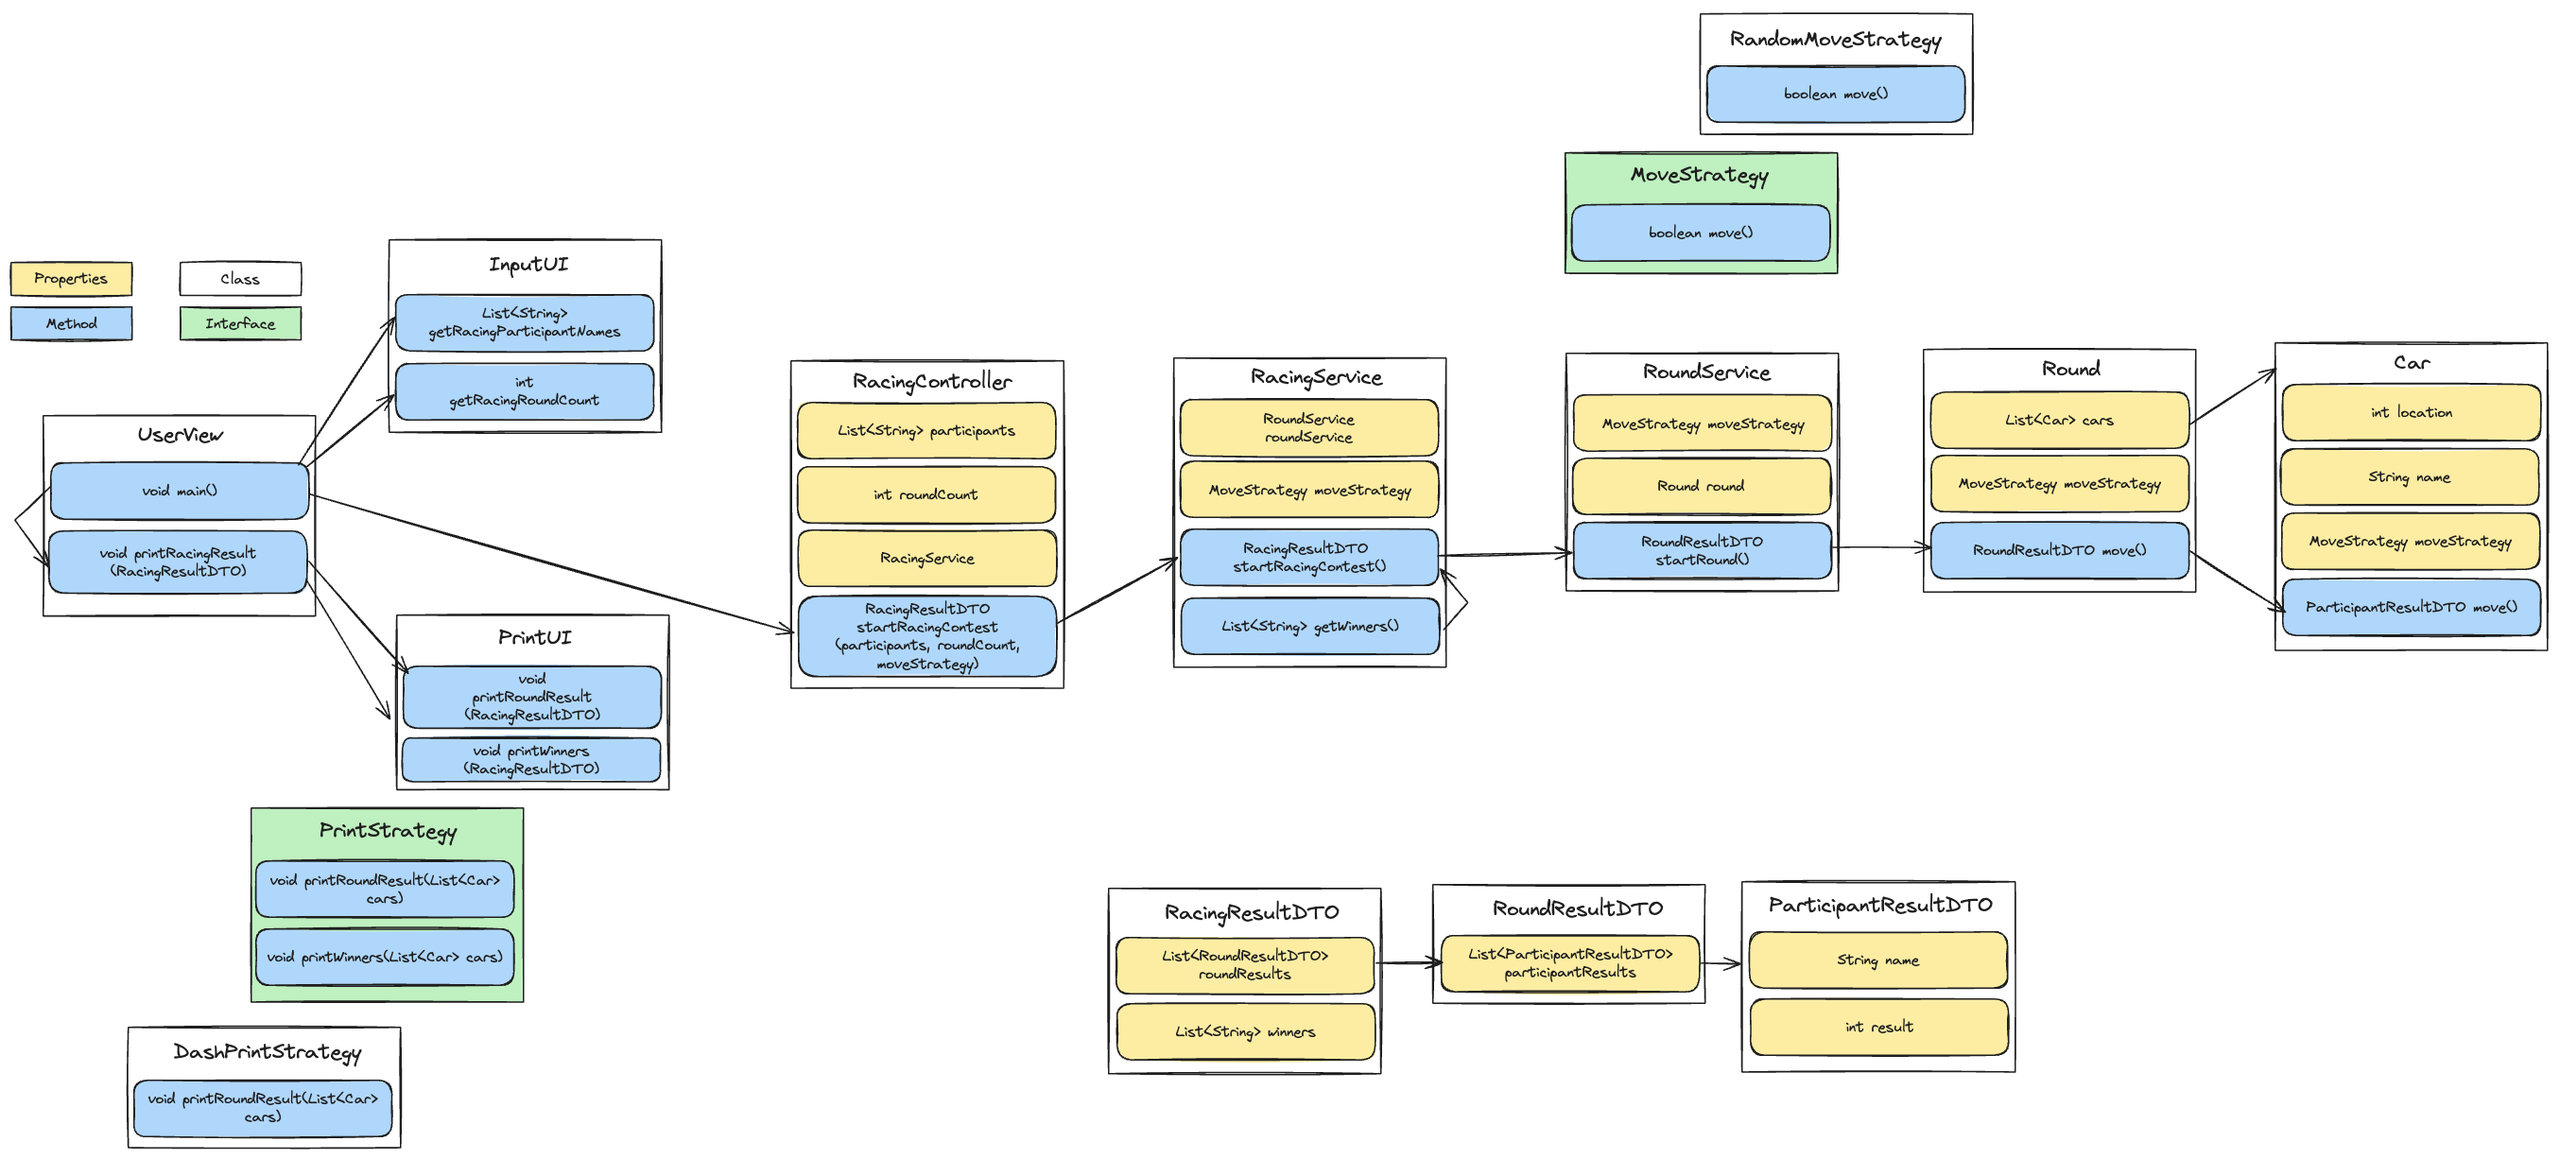
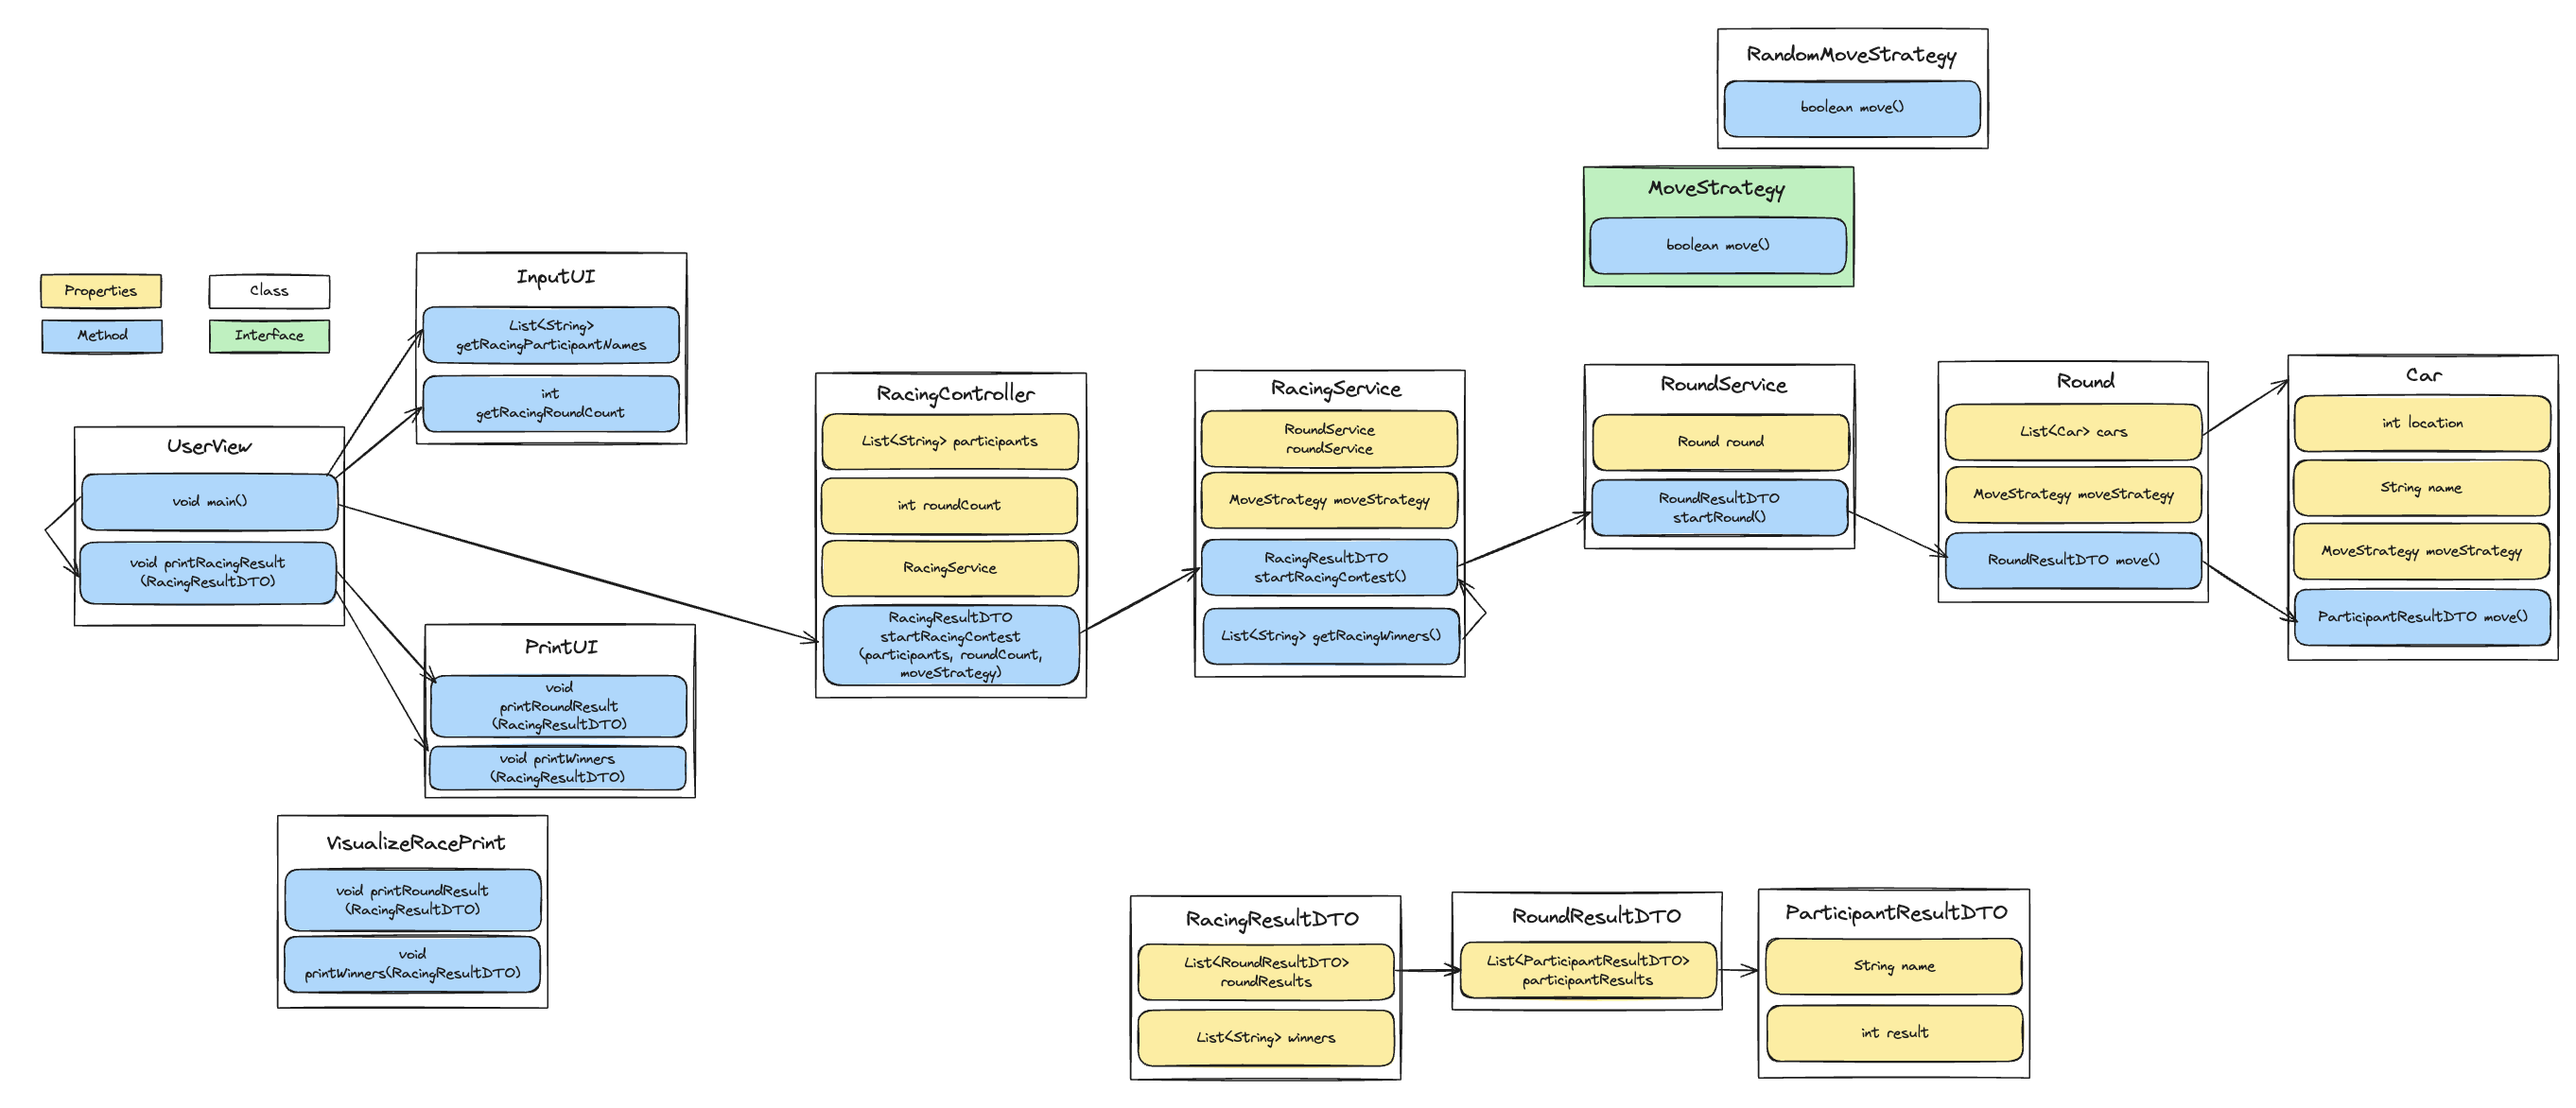
feat: RacingController, Viewer 화면 구현

Changed region(s): [[0.0, 0.0, 1.0, 1.0], [0.4343, 0.7372, 0.8065, 0.9829]]

diff --git a/src/main/java/racingcar/step4/service/RacingService.java b/src/main/java/racingcar/step4/service/RacingService.java
@@ -34,14 +34,21 @@ public class RacingService {
             return new ArrayList<>();
         }
 
-        RoundResultDto finalRound = getFinalRound(roundResults);
-        int winnerLocation = getWinnerLocation(finalRound);
-
-        return getWinners(finalRound, winnerLocation);
+        return getWinners(roundResults);
     }
 
     private static boolean isRoundResultNullOrEmpty(List<RoundResultDto> roundResults) {
         return roundResults == null || roundResults.isEmpty();
+    }
+
+    private static List<String> getWinners(List<RoundResultDto> roundResults) {
+        RoundResultDto finalRound = getFinalRound(roundResults);
+        int winnerLocation = getWinnerLocation(finalRound);
+
+        return finalRound.getParticipantResults().stream()
+                .filter(x -> x.getLocation() == winnerLocation)
+                .map(ParticipantResultDto::getName)
+                .collect(Collectors.toList());
     }
 
     private static RoundResultDto getFinalRound(List<RoundResultDto> roundResults) {
@@ -53,12 +60,5 @@ public class RacingService {
                 .map(ParticipantResultDto::getLocation)
                 .max(Integer::compareTo)
                 .get();
-    }
-
-    private static List<String> getWinners(RoundResultDto finalRound, int winnerLocation) {
-        return finalRound.getParticipantResults().stream()
-                .filter(x -> x.getLocation() == winnerLocation)
-                .map(ParticipantResultDto::getName)
-                .collect(Collectors.toList());
     }
 }

diff --git a/src/main/java/racingcar/step4/ui/input/InputView.java b/src/main/java/racingcar/step4/ui/input/InputView.java
@@ -1,0 +1,44 @@
+package racingcar.step4.ui.input;
+
+import racingcar.step4.utils.ConstUtils;
+
+import java.util.Arrays;
+import java.util.List;
+import java.util.Scanner;
+import java.util.stream.Collectors;
+
+public class InputView {
+
+    private final Scanner scanner = new Scanner(System.in);
+
+    public List<String> getParticipantsNameInput() {
+        return getParticipantsNameUserInput(ConstUtils.PARTICIPANTS_NAME_HELP_MESSAGE);
+    }
+
+    public int getRoundCountInput() {
+        return getRoundCountUserInput(ConstUtils.ROUNDS_NUMBER_HELP_MESSAGE);
+    }
+
+    private List<String> getParticipantsNameUserInput(String helpMessage) {
+        System.out.println(helpMessage);
+
+        try {
+            String input = scanner.nextLine();
+            return Arrays.stream(input.split(ConstUtils.NAME_SEPARATE_DELIMITER))
+                    .map(String::trim)
+                    .collect(Collectors.toList());
+        } catch (Exception e) {
+            throw new IllegalArgumentException("이름 입력에 실패했습니다.");
+        }
+    }
+
+    private int getRoundCountUserInput(String helpMessage) {
+        System.out.println(helpMessage);
+
+        try {
+            return Integer.parseInt(scanner.nextLine());
+        } catch (Exception e) {
+            throw new NumberFormatException("값은 숫자만 입력할 수 있습니다.");
+        }
+    }
+}

diff --git a/src/test/java/racingcar/step4/service/RacingServiceTest.java b/src/test/java/racingcar/step4/service/RacingServiceTest.java
@@ -16,12 +16,13 @@ import static org.assertj.core.api.Assertions.assertThat;
 
 class RacingServiceTest {
 
+    private final List<String> names = Arrays.asList("Luffy", "Naruto", "Ichigo");
+    private final int roundCount = 3;
+
     @DisplayName("주어진 라운드만큼 경기를 수행하고, 각 참가자들은 이동한다.")
     @Test
     void startContestWithRoundCount() {
         // given
-        List<String> names = Arrays.asList("Luffy", "Naruto", "Ichigo");
-        int roundCount = 3;
         RacingService racingService = new RacingService(
                 new IncrementMoveStrategy(),
                 roundCount,
@@ -40,8 +41,6 @@ class RacingServiceTest {
     @Test
     void getWinnersOfRacing() {
         // given
-        List<String> names = Arrays.asList("Luffy", "Naruto", "Ichigo");
-        int roundCount = 3;
         RacingService racingService = new RacingService(
                 new IncrementMoveStrategy(),
                 roundCount,
@@ -53,7 +52,7 @@ class RacingServiceTest {
         List<String> winners = result.getWinners();
 
         // then
-        assertThat(winners).isEqualTo(Arrays.asList("Luffy", "Naruto", "Ichigo"));
+        assertThat(winners).isEqualTo(names);
     }
 
     private static List<Integer> getFinalRoundParticipantsLocation(RacingService racingService) {

diff --git a/src/main/java/racingcar/step4/ui/print/VisualizeRacePrintView.java b/src/main/java/racingcar/step4/ui/print/VisualizeRacePrintView.java
@@ -1,0 +1,36 @@
+package racingcar.step4.ui.print;
+
+import racingcar.step4.domain.dto.ParticipantResultDto;
+import racingcar.step4.domain.dto.RoundResultDto;
+import racingcar.step4.service.dto.RacingResultDto;
+import racingcar.step4.utils.ConstUtils;
+
+public class VisualizeRacePrintView {
+
+    private final String printDelimiter;
+
+    public VisualizeRacePrintView(String printDelimiter) {
+        this.printDelimiter = printDelimiter;
+    }
+
+    public void printRacingResult(RacingResultDto racingResult) {
+        for (RoundResultDto roundResult : racingResult.getRoundResults()) {
+            printRoundResult(roundResult);
+            System.out.println();
+        }
+
+        printWinners(racingResult);
+    }
+
+    private void printRoundResult(RoundResultDto roundResult) {
+        for (ParticipantResultDto participantResult : roundResult.getParticipantResults()) {
+            System.out.println(participantResult.getName() + " : " + printDelimiter.repeat(participantResult.getLocation()));
+        }
+    }
+
+    private void printWinners(RacingResultDto racingResultDto) {
+        String winners = String.join(ConstUtils.NAME_JOINING_DELIMITER, racingResultDto.getWinners());
+
+        System.out.println(winners + "가 최종 우승했습니다.");
+    }
+}

diff --git a/src/main/java/racingcar/step4/ui/RacingGameUserView.java b/src/main/java/racingcar/step4/ui/RacingGameUserView.java
@@ -1,0 +1,24 @@
+package racingcar.step4.ui;
+
+import racingcar.step4.controller.RacingController;
+import racingcar.step4.service.dto.RacingResultDto;
+import racingcar.step4.ui.input.InputView;
+import racingcar.step4.ui.print.VisualizeRacePrintView;
+import racingcar.step4.utils.ConstUtils;
+
+import java.util.List;
+
+public class RacingGameUserView {
+
+    public static void main(String[] args) {
+        InputView inputView = new InputView();
+        List<String> participantsName = inputView.getParticipantsNameInput();
+        int roundCount = inputView.getRoundCountInput();
+
+        RacingController racingController = new RacingController(roundCount, participantsName);
+        RacingResultDto racingResult = racingController.startRacingContest();
+
+        VisualizeRacePrintView printStrategy = new VisualizeRacePrintView(ConstUtils.DASH_DELIMITER);
+        printStrategy.printRacingResult(racingResult);
+    }
+}

diff --git a/src/main/java/racingcar/step4/utils/ConstUtils.java b/src/main/java/racingcar/step4/utils/ConstUtils.java
@@ -4,4 +4,9 @@ public class ConstUtils {
     public static final int MINIMUM_MOVE_BOUND = 4;
     public static final int MOVE = 1;
     public static final int STOP = 0;
+    public static final String PARTICIPANTS_NAME_HELP_MESSAGE = "경주할 자동차 이름을 입력하세요(이름은 쉼표(,)를 기준으로 구분).";
+    public static final String ROUNDS_NUMBER_HELP_MESSAGE = "시도할 회수는 몇 회 인가요?";
+    public static final String DASH_DELIMITER = "-";
+    public static final String NAME_SEPARATE_DELIMITER = ",";
+    public static final String NAME_JOINING_DELIMITER = ", ";
 }

diff --git a/src/main/java/racingcar/step4/controller/RacingController.java b/src/main/java/racingcar/step4/controller/RacingController.java
@@ -1,0 +1,20 @@
+package racingcar.step4.controller;
+
+import racingcar.step4.domain.move.RandomMoveStrategy;
+import racingcar.step4.service.RacingService;
+import racingcar.step4.service.dto.RacingResultDto;
+
+import java.util.List;
+
+public class RacingController {
+
+    private final RacingService racingService;
+
+    public RacingController(int roundCount, List<String> names) {
+        this.racingService = new RacingService(new RandomMoveStrategy(), roundCount, names);
+    }
+
+    public RacingResultDto startRacingContest() {
+        return racingService.startRacingContest();
+    }
+}

diff --git a/src/main/java/racingcar/step4/domain/Round.java b/src/main/java/racingcar/step4/domain/Round.java
@@ -29,8 +29,8 @@ public class Round {
     private List<Car> createParticipantsCar(List<String> names) {
         List<Car> cars = new ArrayList<>();
 
-        for (int i = 0; i < names.size(); i++) {
-            cars.add(new Car(names.get(i), moveStrategy));
+        for (String name : names) {
+            cars.add(new Car(name, moveStrategy));
         }
 
         return cars;

diff --git a/src/test/java/racingcar/step4/domain/CarTest.java b/src/test/java/racingcar/step4/domain/CarTest.java
@@ -7,8 +7,6 @@ import org.junit.jupiter.params.provider.CsvSource;
 import racingcar.step4.domain.dto.ParticipantResultDto;
 import racingcar.step4.domain.move.IncrementMoveStrategy;
 
-import static org.junit.jupiter.api.Assertions.*;
-
 class CarTest {
 
     @DisplayName("전략에 따라 거리를 이동한다.")

diff --git a/src/test/java/racingcar/step3/print/VisualizeRacePrintViewTest.java b/src/test/java/racingcar/step3/print/VisualizeRacePrintViewTest.java
@@ -15,7 +15,7 @@ import java.util.List;
 
 import static org.assertj.core.api.Assertions.assertThat;
 
-class DashVisualizePrintStrategyTest {
+class VisualizeRacePrintViewTest {
 
     private final ByteArrayOutputStream output = new ByteArrayOutputStream();
 

diff --git a/src/test/java/racingcar/step4/domain/RoundTest.java b/src/test/java/racingcar/step4/domain/RoundTest.java
@@ -13,7 +13,6 @@ import java.util.List;
 import java.util.stream.Collectors;
 
 import static org.assertj.core.api.Assertions.assertThat;
-import static org.junit.jupiter.api.Assertions.*;
 
 class RoundTest {
 

diff --git a/src/main/java/racingcar/step4/README.md b/src/main/java/racingcar/step4/README.md
@@ -39,25 +39,21 @@
 - [x] `METHOD(private)` `getWinners` : 우승자를 구한다.
 
 ### class RacingController
-- [ ] `METHOD` `startRacingContest()` : 자동차 경주를 시작한다.
+- [x] `METHOD` `startRacingContest()` : 자동차 경주를 시작한다.
 
 ### class InputUI
-- [ ] `method` `getCarsNumberInput()` :
+- [x] `method` `getParticipantsNameInput()` :
   - "자동차 대수는 몇 대 인가요?"를 출력한다.
   - 입력값을 받는다.
   - 받은 입력값을 `int`로 반환한다.
-- [ ] `method` `getRoundsNumberInput()` :
+- [x] `method` `getRoundCountInput()` :
   - "시도할 회수는 몇 회 인가요?"를 출력한다.
   - 입력값을 받는다.
   - 받은 입력값을 `int`로 반환한다.
 
-### class PrintUI
-- [ ] `METHOD` `printRoundResult` : 라운드의 결과를 출력한다.
-- [ ] `METHOD` `printWinners` : 우승자를 출력한다.
-
 ### interface MoveStrategy
 - [x] `METHOD` `move()` : 이동 전략을 결정한다.
 
-### interface PrintStrategy
-- [ ] `METHOD` `printRoundResult` : 라운드 출력 전략을 결정한다.
-- [ ] `METHOD(default)` `printWinners` : 우승자 출력한다.
+### interface VisualizeRacePrintView
+- [x] `METHOD` `printRoundResult` : 라운드 출력 전략을 결정한다.
+- [x] `METHOD(default)` `printWinners` : 우승자 출력한다.
